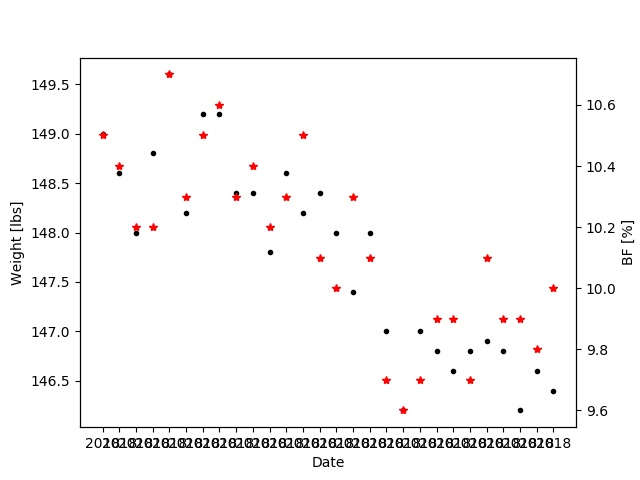
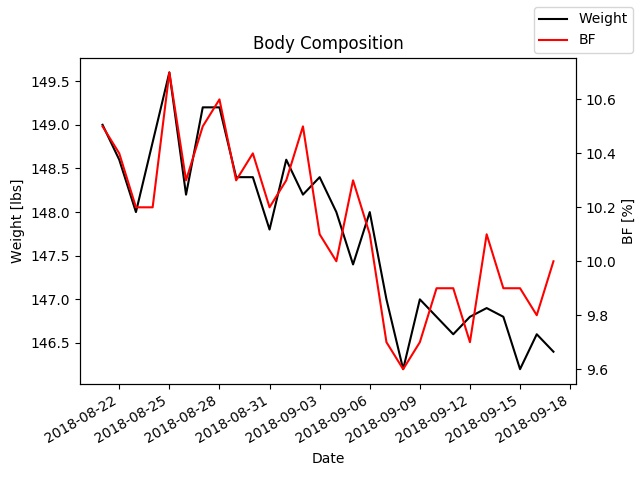
updating body comp

diff --git a/fitness/pltbodycomp.py b/fitness/pltbodycomp.py
@@ -3,6 +3,12 @@
 import matplotlib.pyplot as plt
 import matplotlib.dates as mdates
 from datetime import datetime
+import argparse
+
+parser = argparse.ArgumentParser()
+parser.add_argument("--filter", help="You can choose to reduce noise of data", action='store_true')
+args = parser.parse_args()
+
 
 content = open('body-comp.csv', 'r')
 
@@ -21,18 +27,19 @@ for i, line in enumerate(content):
     goal.append(line[4])
 
 
-print(dates)
-print(weight)
-print(bf)
 
 fig, ax1 = plt.subplots()
-ax1.plot_date(dates, weight, '.k')
+ax1.plot_date(dates, weight, 'k', label="Weight")
 ax1.set_xlabel('Date')
 ax1.set_ylabel('Weight [lbs]')
 
 ax2 = ax1.twinx()
-ax2.plot_date(dates, bf, '*r')
+ax2.plot_date(dates, bf, 'r', label="BF")
 ax2.set_ylabel('BF [%]')
-plt.xticks(dates, rotation='vertical')
 
+
+fig.autofmt_xdate()
+fig.legend(loc="upper right")
+plt.title('Body Composition')
+# plt.show()
 plt.savefig('body_comp.jpg')
